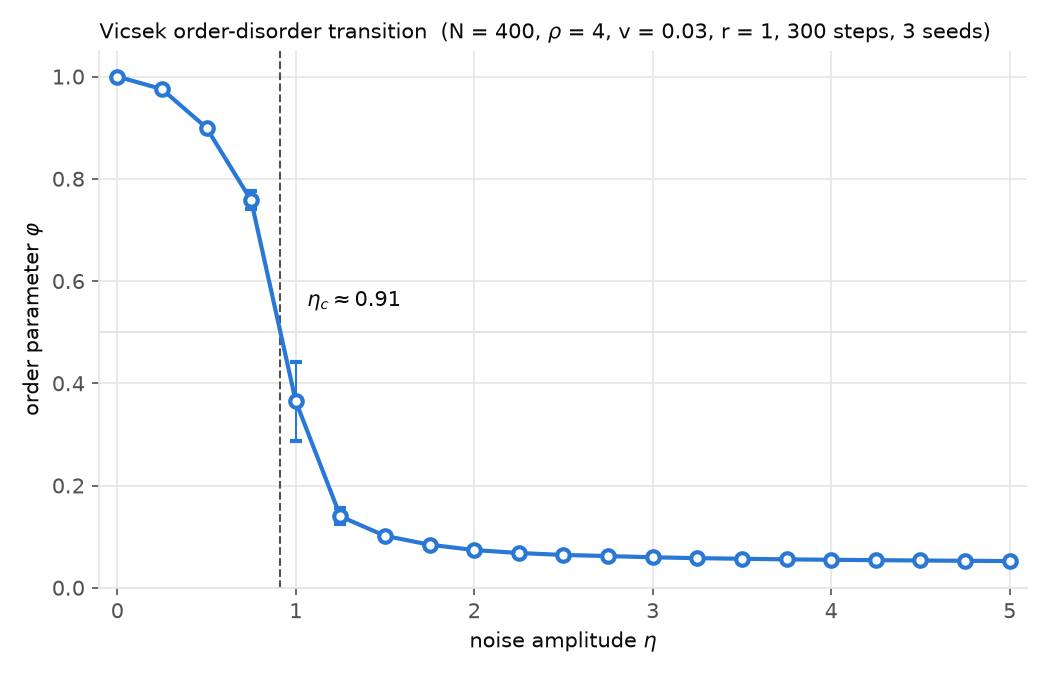
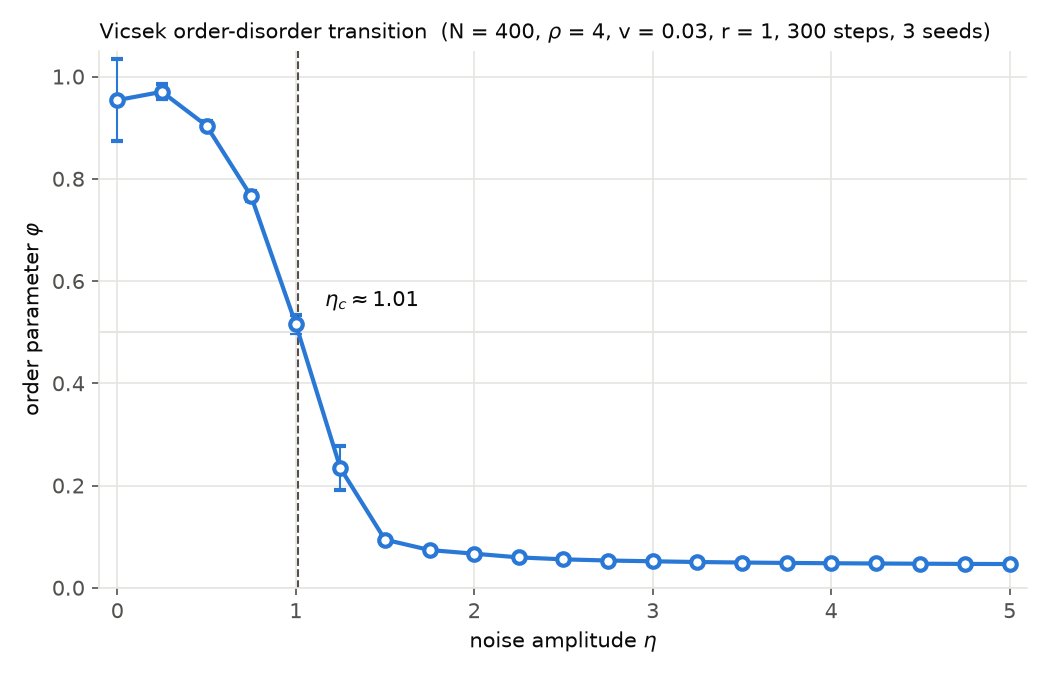
Merge core and infra: README reflects synchronous update and the rerun sweep (eta_c = 1.01); untrack egg-info

Changed region(s): [[0.2133, 0.2178, 0.9752, 0.8711], [0.0914, 0.0933, 0.1829, 0.2178], [0.1829, 0.1556, 0.2133, 0.2178]]

diff --git a/README.md b/README.md
@@ -13,7 +13,7 @@ What it does:
 - Heterogeneous particle types with per-pair alignment and noise weights (`HeterogeneousVicsek`).
 - A cell list for neighbour finding, an order-parameter time series, an equilibration check, and a noise sweep (`simulate_phase_transition`).
 
-Noise is applied as a random vector of length `noise_factor` added to the unit mean direction, then renormalised (vectorial noise), not as the uniform angular noise of the 1995 paper. Particles are updated sequentially within a step.
+Noise is applied as a random vector of length `noise_factor` added to the unit mean direction, then renormalised (vectorial noise, as in Gregoire and Chate 2004), not as the uniform angular noise of the 1995 paper. Updates are synchronous: every new heading is computed from the state at time t, then all are applied together. Models accept `seed=` (an int or a numpy Generator) for reproducible runs.
 
 ## Installation
 
@@ -98,7 +98,7 @@ More scripts are in `scripts/`, organised by system type.
 
 ![Order parameter against noise amplitude for N = 400](scripts/phase_transition.png)
 
-Quick mode (N = 400, 300 steps per run, 21 noise values, 3 seeds; 149 s on an Apple Silicon M5, Python 3.12, 2026-10-09) gives **eta_c = 0.91**. The order-disorder transition is reproduced, with phi falling to the 1/sqrt(N) = 0.05 noise floor on the disordered side. The value is lower than the 2 to 3 reported by Vicsek et al. for the same N, density and speed because this library uses vectorial rather than angular noise: here `noise_factor = 1` adds a random vector as long as the mean direction itself, so the two noise scales are not directly comparable. Run with `--full` for N = 4000 (slow).
+Quick mode (N = 400, 300 steps per run, 21 noise values, 3 seeds; 152 s on an Apple Silicon M5, Python 3.12, 2026-10-09) gives **eta_c = 1.01**. The order-disorder transition is reproduced, with phi falling to the 1/sqrt(N) = 0.05 noise floor on the disordered side. The value is lower than the 2 to 3 reported by Vicsek et al. for the same N, density and speed because this library uses vectorial rather than angular noise: here `noise_factor = 1` adds a random vector as long as the mean direction itself, so the two noise scales are not directly comparable. Run with `--full` for N = 4000 (slow).
 
 ## Performance
 
@@ -134,6 +134,5 @@ CI runs the suite on Python 3.10, 3.11 and 3.12 and uploads coverage to Codecov.
 
 ## Roadmap
 
-- Higher-dimensional testing.
 - Lyapunov analysis of phase dimensions (based on [this paper](https://doi.org/10.1103/PhysRevE.105.014213)).
 - Geometry support for particles and boundaries using [shapely](https://github.com/shapely/shapely).
